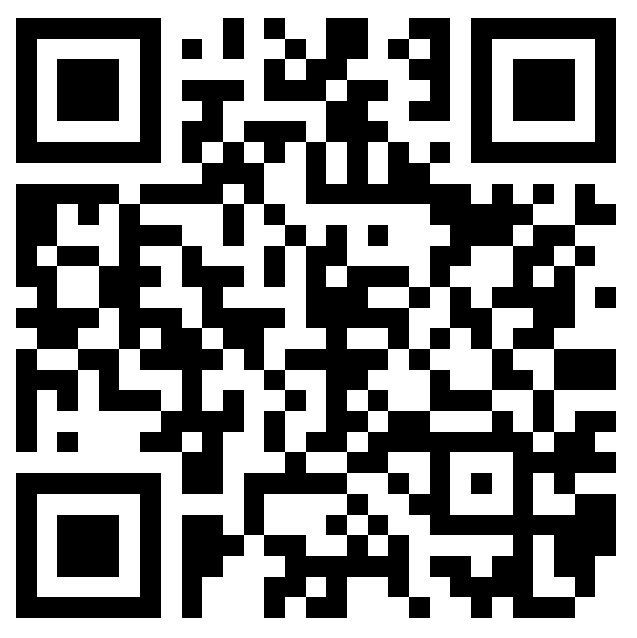
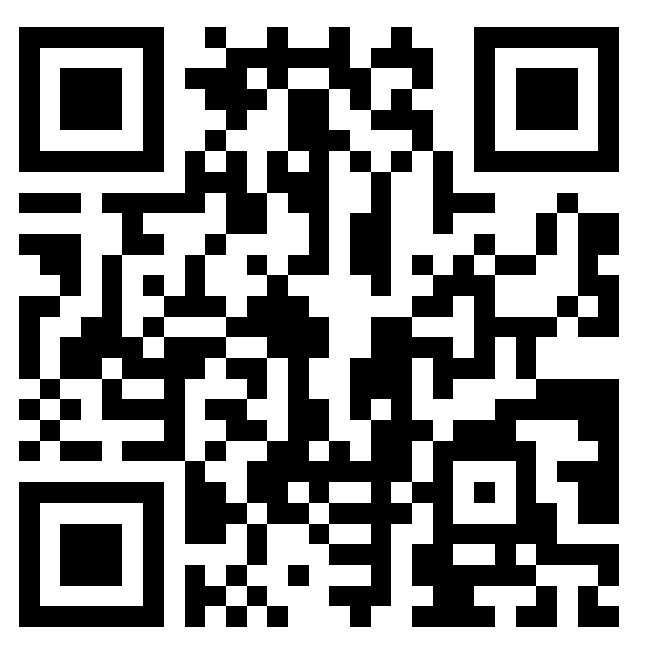
h

diff --git a/public/invoice.html b/public/invoice.html
@@ -353,7 +353,7 @@
                                         <strong style="font-size: 1.3rem; color: #36a3f5;">
                                             Awaiting <span id="the-other-one"></span> payment...
                                         </strong>
-                                        <input type="text" style=" color: black; font-size: 1.1rem; font-weight: 700; border-radius: 3px;border: 2px solid black;" class="form-control" value="1NrChKYKHKL4Zwqv72v9bAfdQX7YCcCTbN" onclick="this.select();">
+                                        <input type="text" style=" color: black; font-size: 1.1rem; font-weight: 700; border-radius: 3px;border: 2px solid black;" class="form-control" value="1AMjPsZQvqeAfnEjfk17fEUZc6rZuM9Ccp" onclick="this.select();">
                                         <img src="images/download.jpeg" />
                                     </p>
                                 </div>
